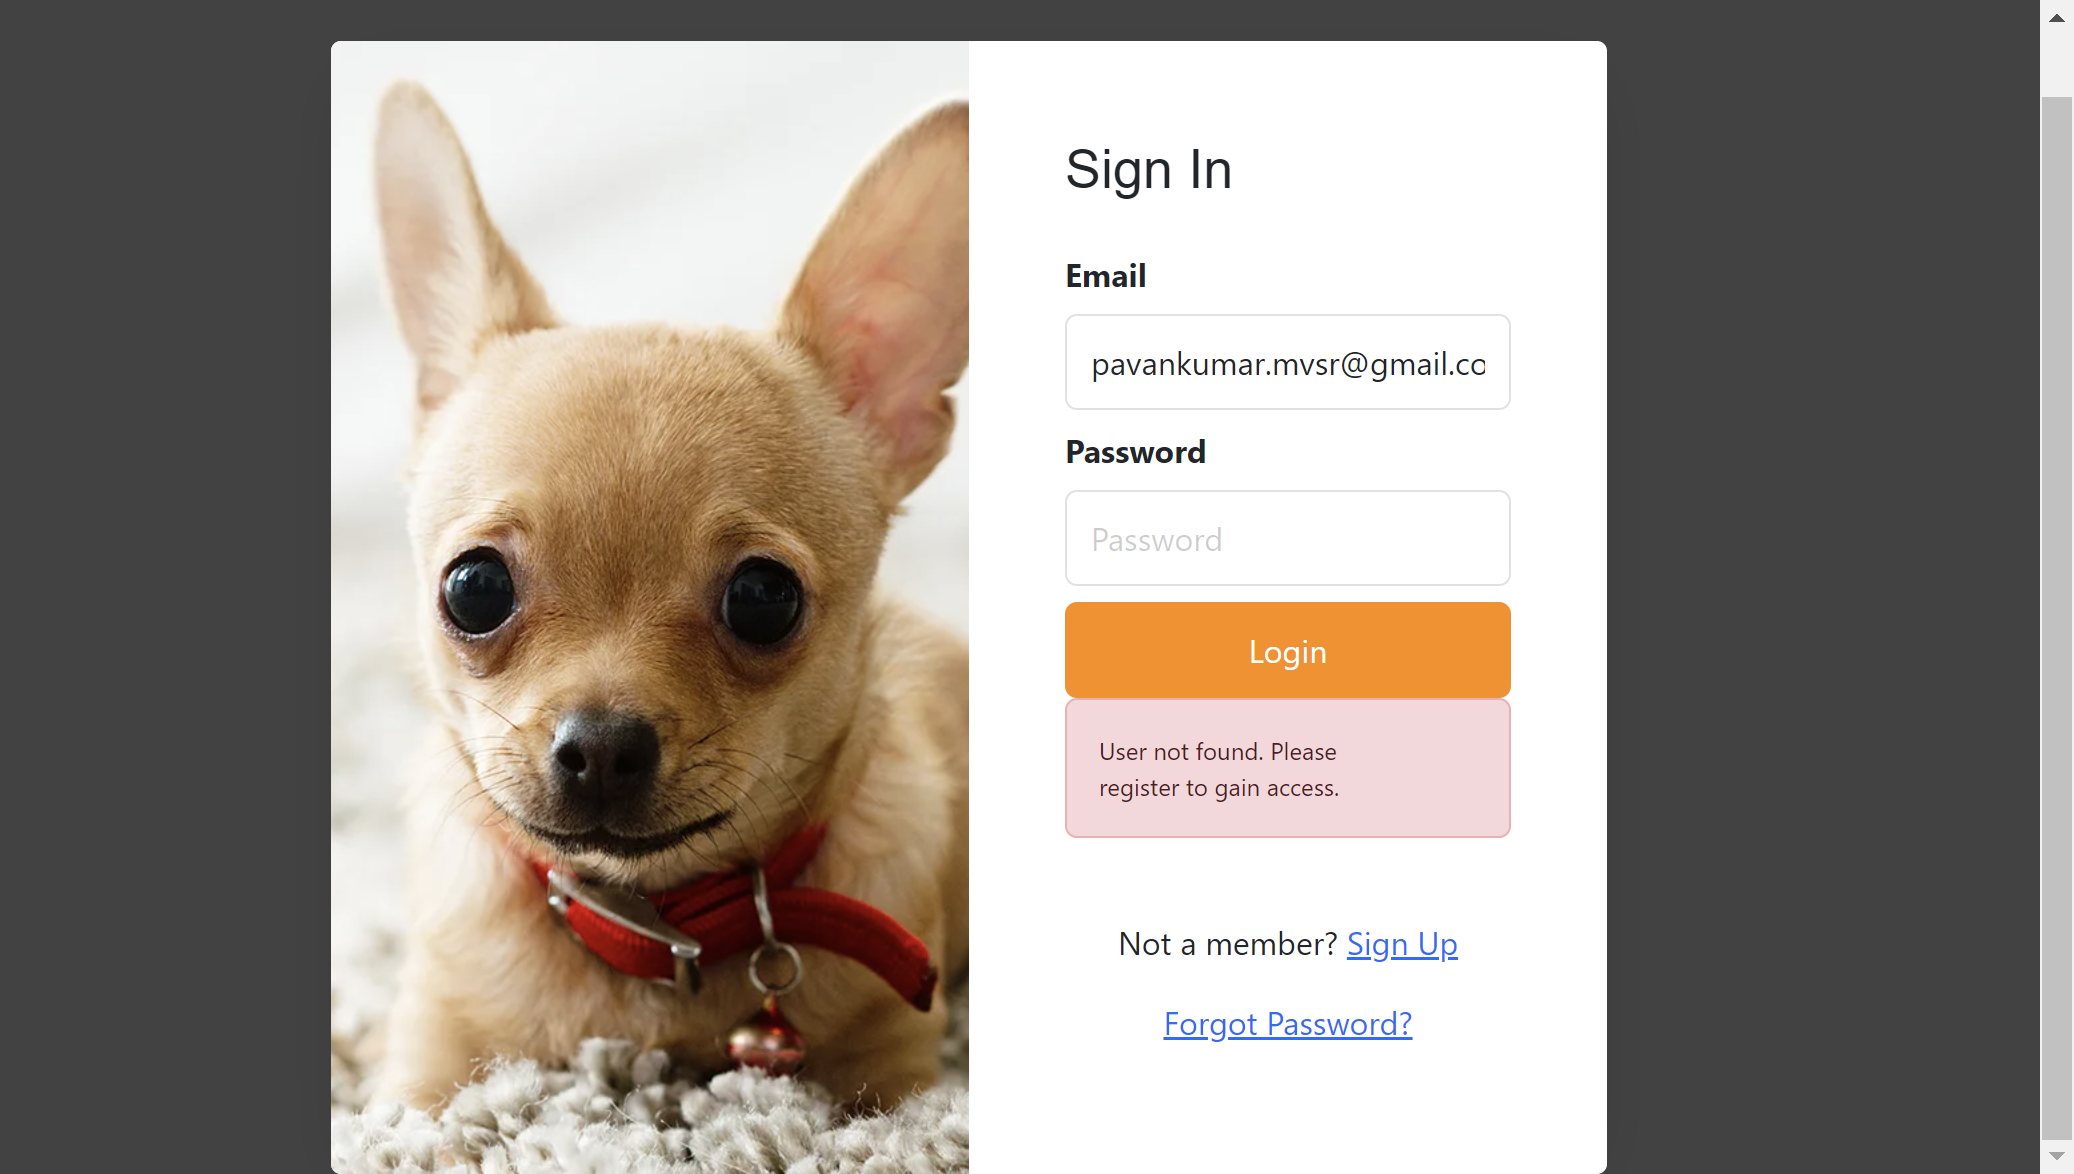
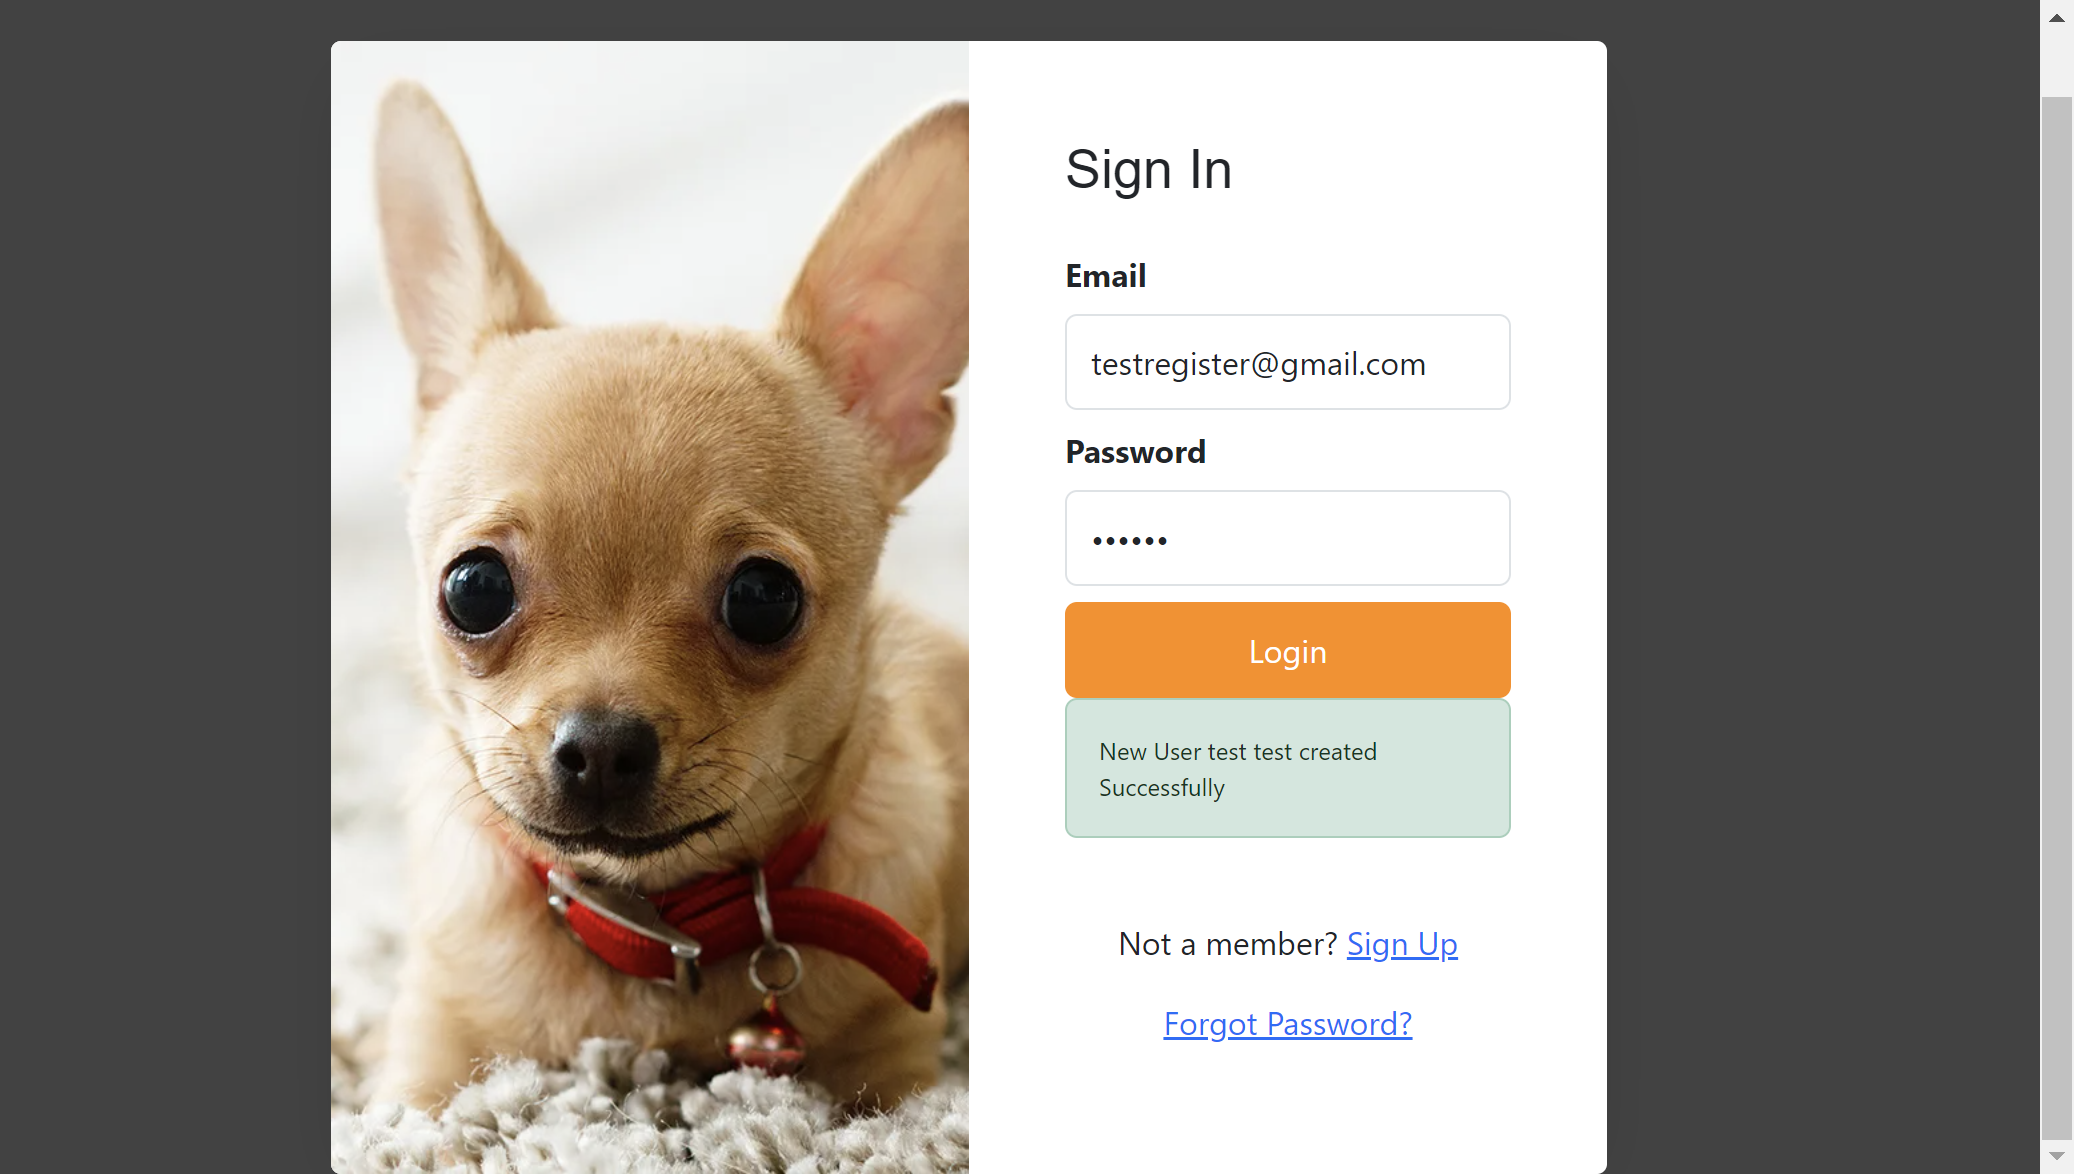
logout test fixed

Changed region(s): [[0.4937, 0.5826, 0.7406, 0.7359], [0.5246, 0.3066, 0.7097, 0.3373], [0.5246, 0.4293, 0.5863, 0.4906]]

diff --git a/tests/test_logout.py b/tests/test_logout.py
@@ -11,6 +11,7 @@ from webdriver_manager.chrome import ChromeDriverManager
 from selenium.webdriver.support.ui import WebDriverWait
 from selenium.webdriver.support import expected_conditions as EC
 from selenium.common.exceptions import TimeoutException, ElementClickInterceptedException
+from selenium.webdriver.common.action_chains import ActionChains
 
 
 class LoginAndLogoutPageTest(unittest.TestCase):
@@ -24,7 +25,40 @@ class LoginAndLogoutPageTest(unittest.TestCase):
         # Step 1: Navigate to the login page
         driver.get("http://127.0.0.1:5000/login")
 
-        # Step 2: Fill out and submit the login form
+        # Step 2: Click on the "Sign Up" link to go to the registration page
+        WebDriverWait(driver, 10).until(EC.element_to_be_clickable((By.LINK_TEXT, "Sign Up"))).click()
+
+        # Step 3: Fill out and submit the registration form
+        WebDriverWait(driver, 10).until(EC.presence_of_element_located((By.ID, "FirstName"))).send_keys("test")
+        WebDriverWait(driver, 10).until(EC.presence_of_element_located((By.ID, "LastName"))).send_keys("test")
+        WebDriverWait(driver, 10).until(EC.presence_of_element_located((By.ID, "Email"))).send_keys("testregister@gmail.com")
+        WebDriverWait(driver, 10).until(EC.presence_of_element_located((By.ID, "Password"))).send_keys("123456")
+
+        # Submit the registration form
+        submit_button = WebDriverWait(driver, 10).until(EC.element_to_be_clickable((By.ID, "registerButton")))
+        driver.execute_script("arguments[0].scrollIntoView();", submit_button)  # Scroll the button into view
+
+        try:
+            submit_button.click()
+        except ElementClickInterceptedException:
+            print("Element Click Intercepted Exception: Retrying after adjusting view")
+            driver.execute_script("arguments[0].scrollIntoView(true);", submit_button)
+            time.sleep(1)  # Adding slight delay to ensure the element is interactable
+            submit_button.click()
+
+        # Verify successful registration and redirection to the login page
+        try:
+            login_heading = WebDriverWait(driver, 10).until(
+                EC.presence_of_element_located((By.CSS_SELECTOR, "h3.mb-4"))
+            )
+            self.assertIn("Sign In", login_heading.text)
+        except TimeoutException as e:
+            print("Registration failed or not redirected to login page:", e.msg)
+            driver.save_screenshot('registration_failure.png')
+            raise
+        driver.get("http://127.0.0.1:5000/login")
+        # Step 4: Fill out and submit the login form
+
         registered_email = "testregister@gmail.com"
         password = "123456"
 
@@ -52,7 +86,7 @@ class LoginAndLogoutPageTest(unittest.TestCase):
             time.sleep(1)  # Adding slight delay to ensure the element is interactable
             actions.move_to_element(login_button).click().perform()
 
-        # Step 3: Verify successful login and validate elements on the homepage
+        # Step 5: Verify successful login and validate elements on the homepage
         try:
             # Validate headline text
             headline_text = WebDriverWait(driver, 10).until(
@@ -77,18 +111,23 @@ class LoginAndLogoutPageTest(unittest.TestCase):
             driver.save_screenshot('login_failure.png')
             raise
 
-        # Step 4: Click on the "Logout" link
+        # Step 6: Click on the "Logout" link
         try:
             logout_link = WebDriverWait(driver, 10).until(EC.element_to_be_clickable((By.LINK_TEXT, "Logout")))
             driver.execute_script("arguments[0].scrollIntoView();", logout_link)  # Scroll the link into view
 
             actions.move_to_element(logout_link).click().perform()
+            print("Logout successful")
         except TimeoutException as e:
             print("Logout link not found or clickable:", e.msg)
             driver.save_screenshot('logout_failure.png')
             raise
 
     def tearDown(self):
+        user = User.query.filter_by(user_email="testregister@gmail.com").first()
+        if user:
+            db.session.delete(user)
+            db.session.commit()
         self.driver.quit()
 
 
